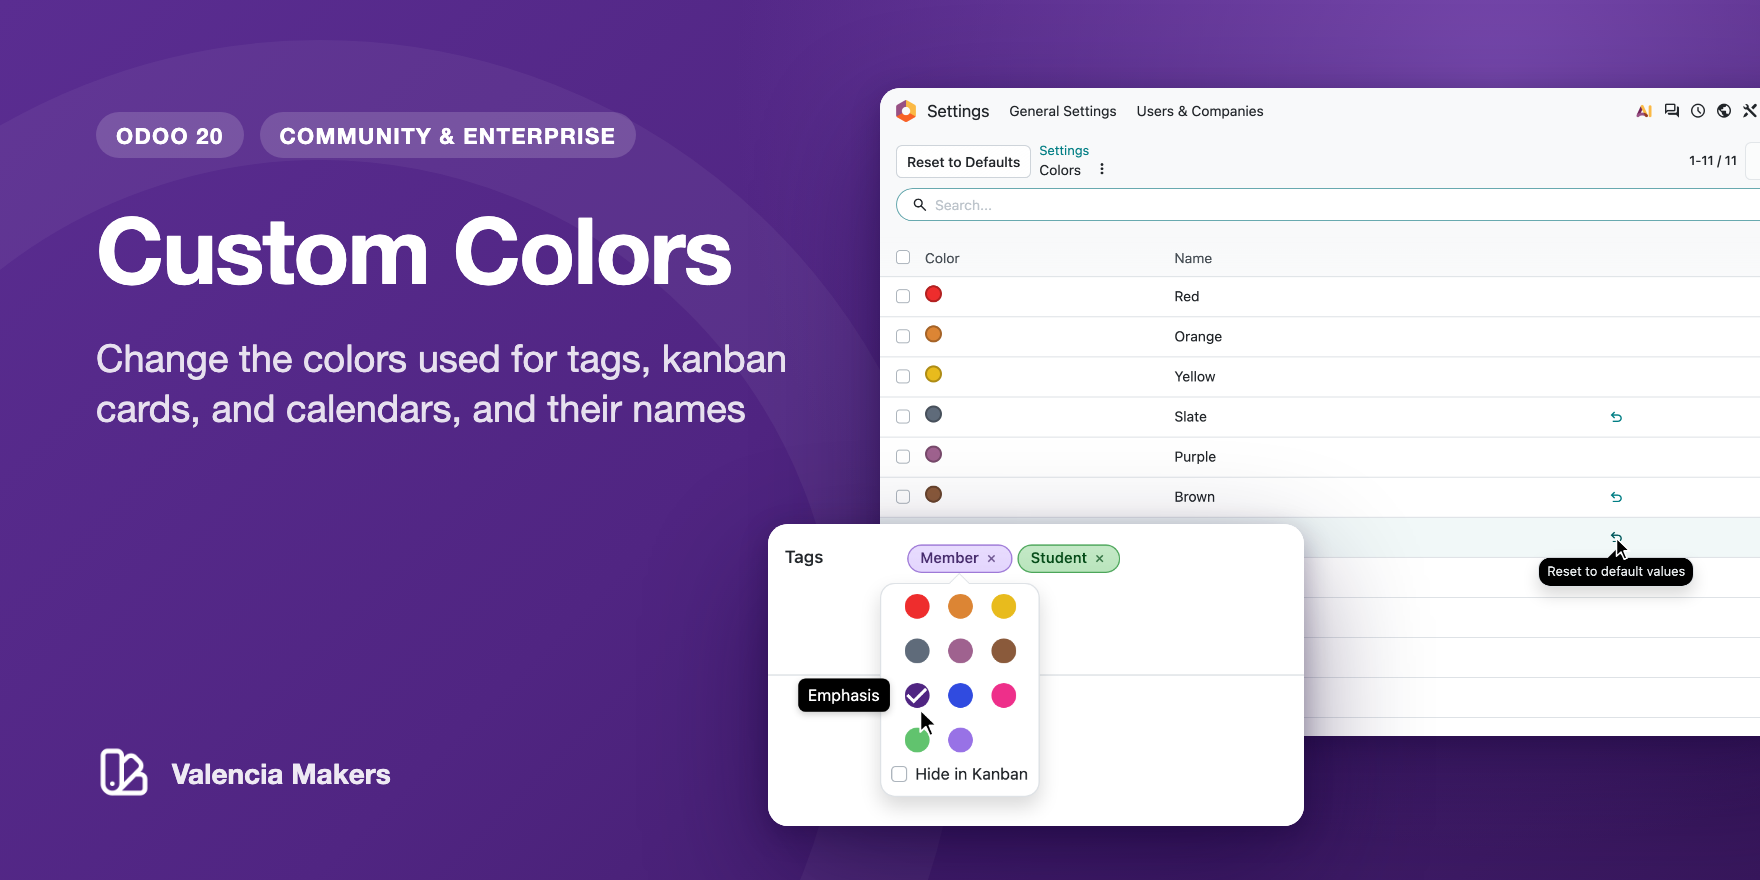
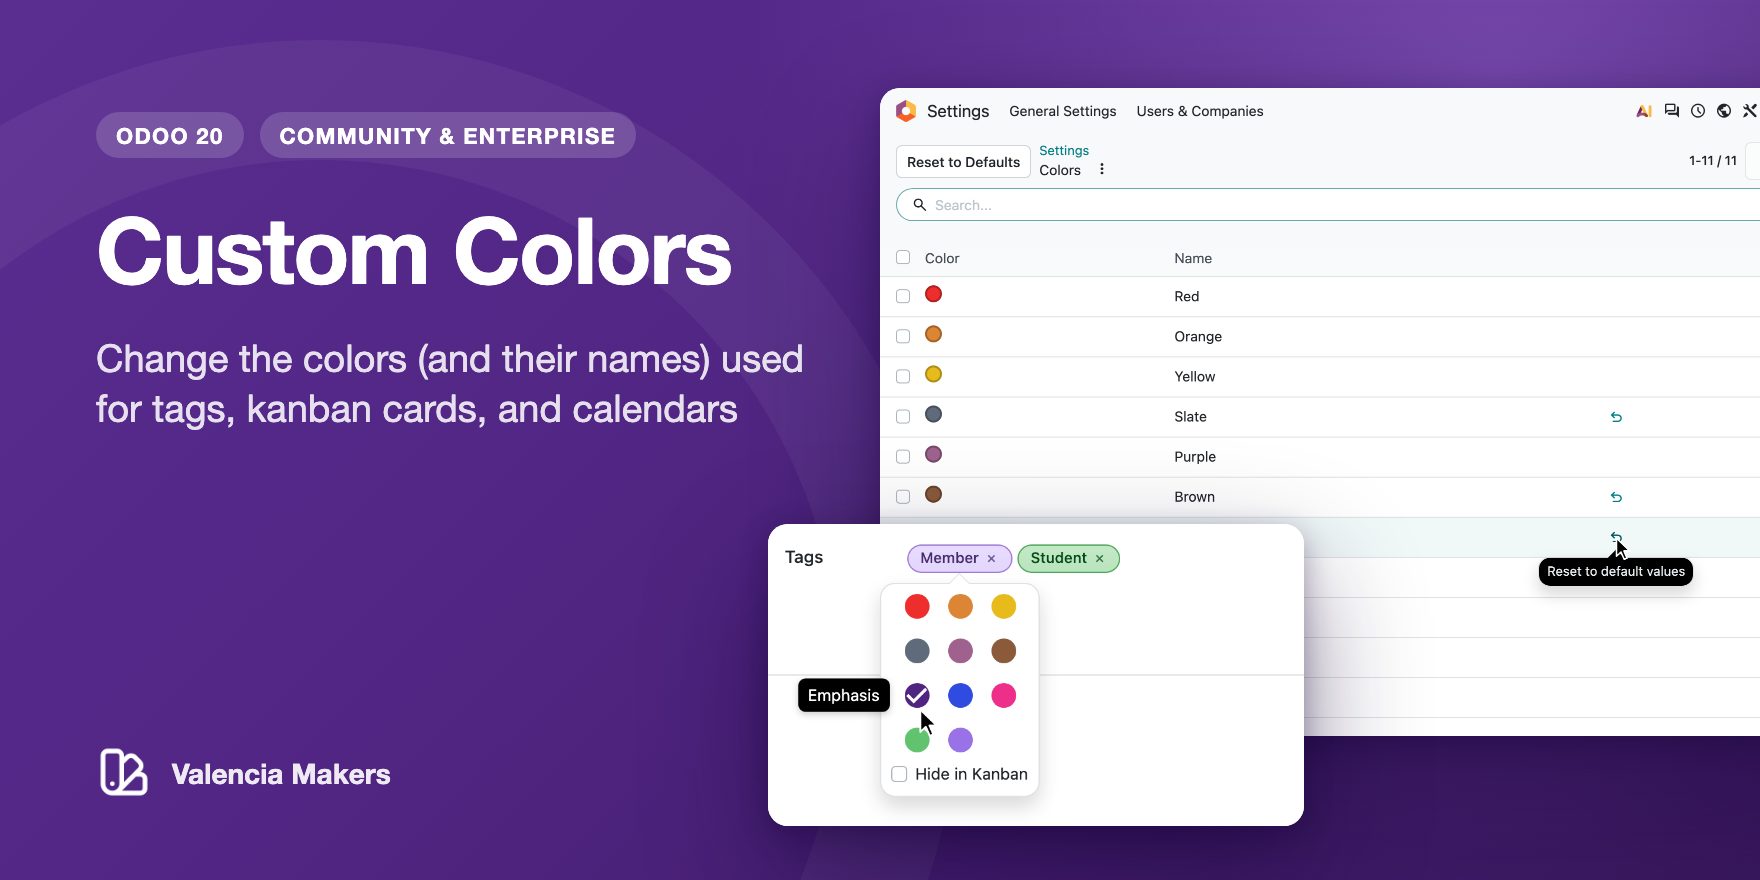
Reword vmk_colorlist_colors' summary
- Summary: "Change the colors (and their names) used for tags, kanban
  cards, and calendars", in the manifest, the cover, the manual's
  opening line, and the name test.
- es and ca carry the new wording; the other 19 catalogues regenerated
  by odev i18n fill, which left the summary blank there as before.

Changed region(s): [[0.0625, 0.3989, 0.4688, 0.4909]]

diff --git a/tools/covers/vmk_colorlist_colors.html b/tools/covers/vmk_colorlist_colors.html
@@ -9,7 +9,7 @@
     <div class="text">
         <div class="badges"><span class="badge">Odoo 20</span><span class="badge">Community &amp; Enterprise</span></div>
         <h1>Custom Colors</h1>
-        <p class="tagline">Change the colors used for tags, kanban cards, and calendars, and their names</p>
+        <p class="tagline">Change the colors (and their names) used for tags, kanban cards, and calendars</p>
     </div>
     <div class="brand"><img src="../../vmk_colorlist_colors/static/description/icon.png" alt="">Valencia Makers</div>
     <!-- Behind: the Colors list (960x648 CSS px at 2x) at 0.5, from its breadcrumb to Violet,

diff --git a/vmk_colorlist_colors/tests/test_translations.py b/vmk_colorlist_colors/tests/test_translations.py
@@ -29,7 +29,7 @@ class TestModuleNameTranslation(TransactionCase):
     I18N = Path(__file__).resolve().parent.parent / "i18n"
     MODULE_METADATA = (
         "Custom Colors",
-        "Change the colors used for tags, kanban cards, and calendars, and their names",
+        "Change the colors (and their names) used for tags, kanban cards, and calendars",
     )
 
     def _translation(self, catalogue, msgid):

diff --git a/vmk_colorlist_colors/__manifest__.py b/vmk_colorlist_colors/__manifest__.py
@@ -3,7 +3,7 @@
 
 {
     "name": "Custom Colors",
-    "summary": "Change the colors used for tags, kanban cards, and calendars, and their names",
+    "summary": "Change the colors (and their names) used for tags, kanban cards, and calendars",
     "version": "20.0.1.0.0",
     "author": "Valencia Makers",
     "license": "LGPL-3",

diff --git a/vmk_colorlist_colors/doc/index.rst b/vmk_colorlist_colors/doc/index.rst
@@ -1,4 +1,4 @@
-Change the colors used for tags, kanban cards, and calendars, and their names.
+Change the colors (and their names) used for tags, kanban cards, and calendars.
 
 In standard Odoo, the eleven colors you can give a tag, a kanban card, or a calendar are fixed, and
 so are their names. This module lets you change any of them to one of your own, such as your
